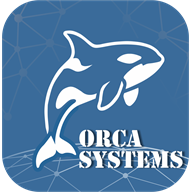
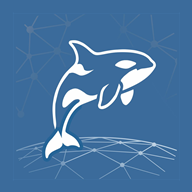
Icones do app a partir da orca sem texto (fundo azul, zona segura)
- fonte: src/assets/orca_icon_1024.jpg (move de public)

- favicons full-bleed sem texto; apple-touch 92%; icon-192/512 88% (maskable)

- manifest/theme-color = #3B6B9B

diff --git a/index.html b/index.html
@@ -20,6 +20,7 @@
     <link rel="icon" href="/favicon.ico" sizes="any" />
     <link rel="apple-touch-icon" sizes="180x180" href="/apple-touch-icon.png" />
     <link rel="manifest" href="/manifest.webmanifest" />
+    <meta name="theme-color" content="#3B6B9B" />
     <meta name="viewport" content="width=device-width, initial-scale=1.0" />
     <meta name="description" content="Orca Systems — Gestão de tapetes personalizados" />
     <meta property="og:title" content="Orca Systems" />

diff --git a/AGENTS.md b/AGENTS.md
@@ -31,7 +31,7 @@
 - `src/stores/counter.ts` — scaffold example store (not used by any view)
 - `.env` contains `VITE_XANO_BASE_URL` (committed — override via `.env.local` for production)
 - `src/views/HomeView.vue` fetches from Xano endpoint `/api:-qqRIakp/cliente_user` on mount
-- `index.html` `<title>` = "Orca Systems"; **ícones do app** em `public/` (`favicon-16/32.png`, `favicon.ico`, `apple-touch-icon.png` 180, `icon-192/512.png`, `manifest.webmanifest`) — gerados a partir de `src/assets/orca_system_1000x1000.png` (mesma imagem da Home).
+- `index.html` `<title>` = "Orca Systems"; **ícones do app** em `public/` (`favicon-16/32.png`, `favicon.ico`, `apple-touch-icon.png` 180, `icon-192/512.png`, `manifest.webmanifest`) — gerados a partir de `src/assets/orca_icon_1024.jpg` (orca branca **sem texto**, fundo azul `#3B6B9B`; a Home usa `src/assets/orca_system_1000x1000.png`). Os grandes (`icon-192/512`, `apple-touch-icon`) têm **fundo azul `#3B6B9B` até a borda + arte centralizada com margem** (zona segura do maskable Android), senão a máscara corta a cauda/boca/barbatana. `theme_color` = `#3B6B9B`.
 - `src/components/HelloWorld.vue`, `TheWelcome.vue`, `WelcomeItem.vue`, `icons/*` are unused scaffold boilerplate
 
 ## Catálogo de Produtos
